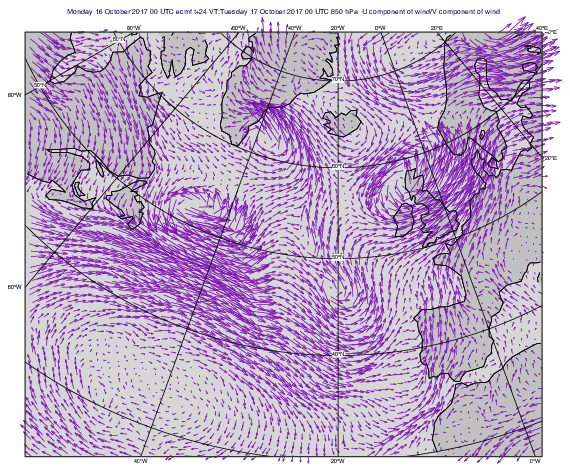
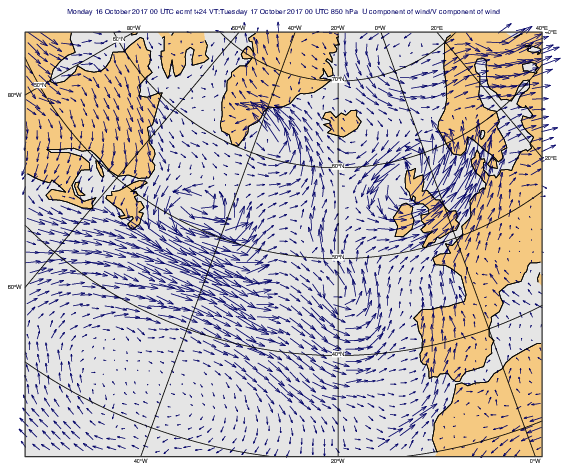
Write documentation for RTD MPY-272

diff --git a/docs/gallery/divergent_and_rotational_wind.py b/docs/gallery/divergent_and_rotational_wind.py
@@ -1,0 +1,127 @@
+"""
+GRIB - Derive Divergent and Rotational Wind from Spectral Divergence and Vorticity
+"""
+
+# (C) Copyright 2017- ECMWF.
+#
+# This software is licensed under the terms of the Apache Licence Version 2.0
+# which can be obtained at http://www.apache.org/licenses/LICENSE-2.0.
+#
+# In applying this licence, ECMWF does not waive the privileges and immunities
+# granted to it by virtue of its status as an intergovernmental organisation
+# nor does it submit to any jurisdiction.
+#
+
+import metview as mv
+
+# get data
+use_mars = False
+
+# get data from MARS (T1279 spectral resolution)
+if use_mars:
+    g = mv.retrieve(
+        type="fc",
+        date=20181114,
+        time=12,
+        step=24,
+        levelist=850,
+        levtype="pl",
+        param=["d", "vo"],
+    )
+# read data from GRIB file
+else:
+    # read data from GRIB file
+    filename = "spectral_d_vo_2018.grib"
+    if mv.exist(filename):
+        g = mv.read(filename)
+    else:
+        g = mv.gallery.load_dataset(filename)
+
+# compute divergent wind from spectral divergence. The result is
+# still spectral (T255)
+d = mv.read(data=g, param="d")
+dwind_sh = mv.divwind(data=d, truncation=255)
+
+# transform spectral divergent wind into gridpoint space (reduced Gaussian grid N128)
+dwind = mv.read(data=dwind_sh, grid=218)
+
+# compute rotational wind from spectral voricity. The result is
+# still spectral (T255)
+vo = mv.read(data=g, param="vo")
+rwind_sh = mv.divrot(data=vo, truncation=255)
+
+# transform spectral rotational wind into gridpoint space (reduced Gaussian grid N128)
+rwind = mv.read(data=rwind_sh, grid=218)
+
+# define coastlines
+coast = mv.mcoast(
+    map_coastline_colour="cream",
+    map_coastline_land_shade="on",
+    map_coastline_land_shade_colour="RGB(0.2,0.2,0.2)",
+    map_coastline_sea_shade="on",
+    map_coastline_sea_shade_colour="RGB(0.3,0.3,0.3)",
+    map_grid_colour="RGB(0.9333,0.9333,0.9333)",
+)
+
+# define view
+view = mv.geoview(area_mode="name", area_name="north_atlantic", coastline=coast)
+
+# define a 2x1 layout
+page_0 = mv.plot_page(top=3, bottom=50, left=25, right=75, view=view)
+page_1 = mv.plot_page(top=53, bottom=100, left=25, right=75, view=view)
+dw = mv.plot_superpage(pages=[page_0, page_1])
+
+# define wind plotting style
+wind_style_div = mv.mwind(
+    legend="on",
+    wind_thinning_factor=2,
+    wind_advanced_method="on",
+    wind_advanced_colour_selection_type="interval",
+    wind_advanced_colour_max_value=12,
+    wind_advanced_colour_min_value=0,
+    wind_advanced_colour_level_interval=2,
+    wind_advanced_colour_max_level_colour="red",
+    wind_advanced_colour_min_level_colour="sky",
+    wind_advanced_colour_direction="clockwise",
+    wind_arrow_unit_velocity=25.0,
+)
+
+# define wind plotting style
+wind_style_rot = mv.mwind(
+    legend="on",
+    wind_thinning_factor=2,
+    wind_advanced_method="on",
+    wind_advanced_colour_selection_type="interval",
+    wind_advanced_colour_max_value=50,
+    wind_advanced_colour_min_value=0,
+    wind_advanced_colour_level_interval=5,
+    wind_advanced_colour_max_level_colour="red",
+    wind_advanced_colour_min_level_colour="sky",
+    wind_advanced_colour_direction="clockwise",
+    wind_arrow_unit_velocity=60.0,
+)
+
+# define legend
+legend = mv.mlegend(legend_text_font_size=0.3)
+
+# define title
+title_core = " <grib_info key='base-date'/> +<grib_info key='step'/>h Level: <grib_info key='level'/> hPa"
+title_div = mv.mtext(text_lines=f"Divergent Wind - {title_core}", text_font_size=0.35)
+title_rot = mv.mtext(text_lines=f"Rotational Wind - {title_core}", text_font_size=0.35)
+
+# define the output plot file
+mv.setoutput(mv.pdf_output(output_name="divergent_and_rotational_wind"))
+
+# generate plot
+mv.plot(
+    dw[0],
+    dwind,
+    wind_style_div,
+    legend,
+    title_div,
+    dw[1],
+    rwind,
+    wind_style_rot,
+    title_rot,
+    legend,
+)

diff --git a/docs/gallery/wind_from_spectral_div_and_vor.py b/docs/gallery/wind_from_spectral_div_and_vor.py
@@ -41,18 +41,22 @@ else:
 # still spectral (T255)
 uv_sh = mv.uvwind(data=g, truncation=255)
 
-# transform spectra u/v into gridpoint space (reduced Gaussian grid N128)
+# transform spectral u/v into gridpoint space (reduced Gaussian grid N128)
 uv = mv.read(data=uv_sh, grid=218)
 
 # define wind plotting style
-wind_style = mv.mwind(wind_arrow_colour="violet")
+wind_style = mv.mwind(
+    wind_thinning_factor=3,
+    wind_arrow_colour="navy",
+	wind_arrow_unit_velocity=25
+)
 
 # define coastlines
 coast = mv.mcoast(
     map_coastline_land_shade="on",
-    map_coastline_land_shade_colour="RGB(0.7569,0.7569,0.7569)",
+    map_coastline_land_shade_colour="RGB(0.9603,0.7863,0.5064)",
     map_coastline_sea_shade="on",
-    map_coastline_sea_shade_colour="RGB(0.8373,0.8373,0.8411)",
+    map_coastline_sea_shade_colour="RGB(0.9,0.9,0.9)",
 )
 
 # define view
